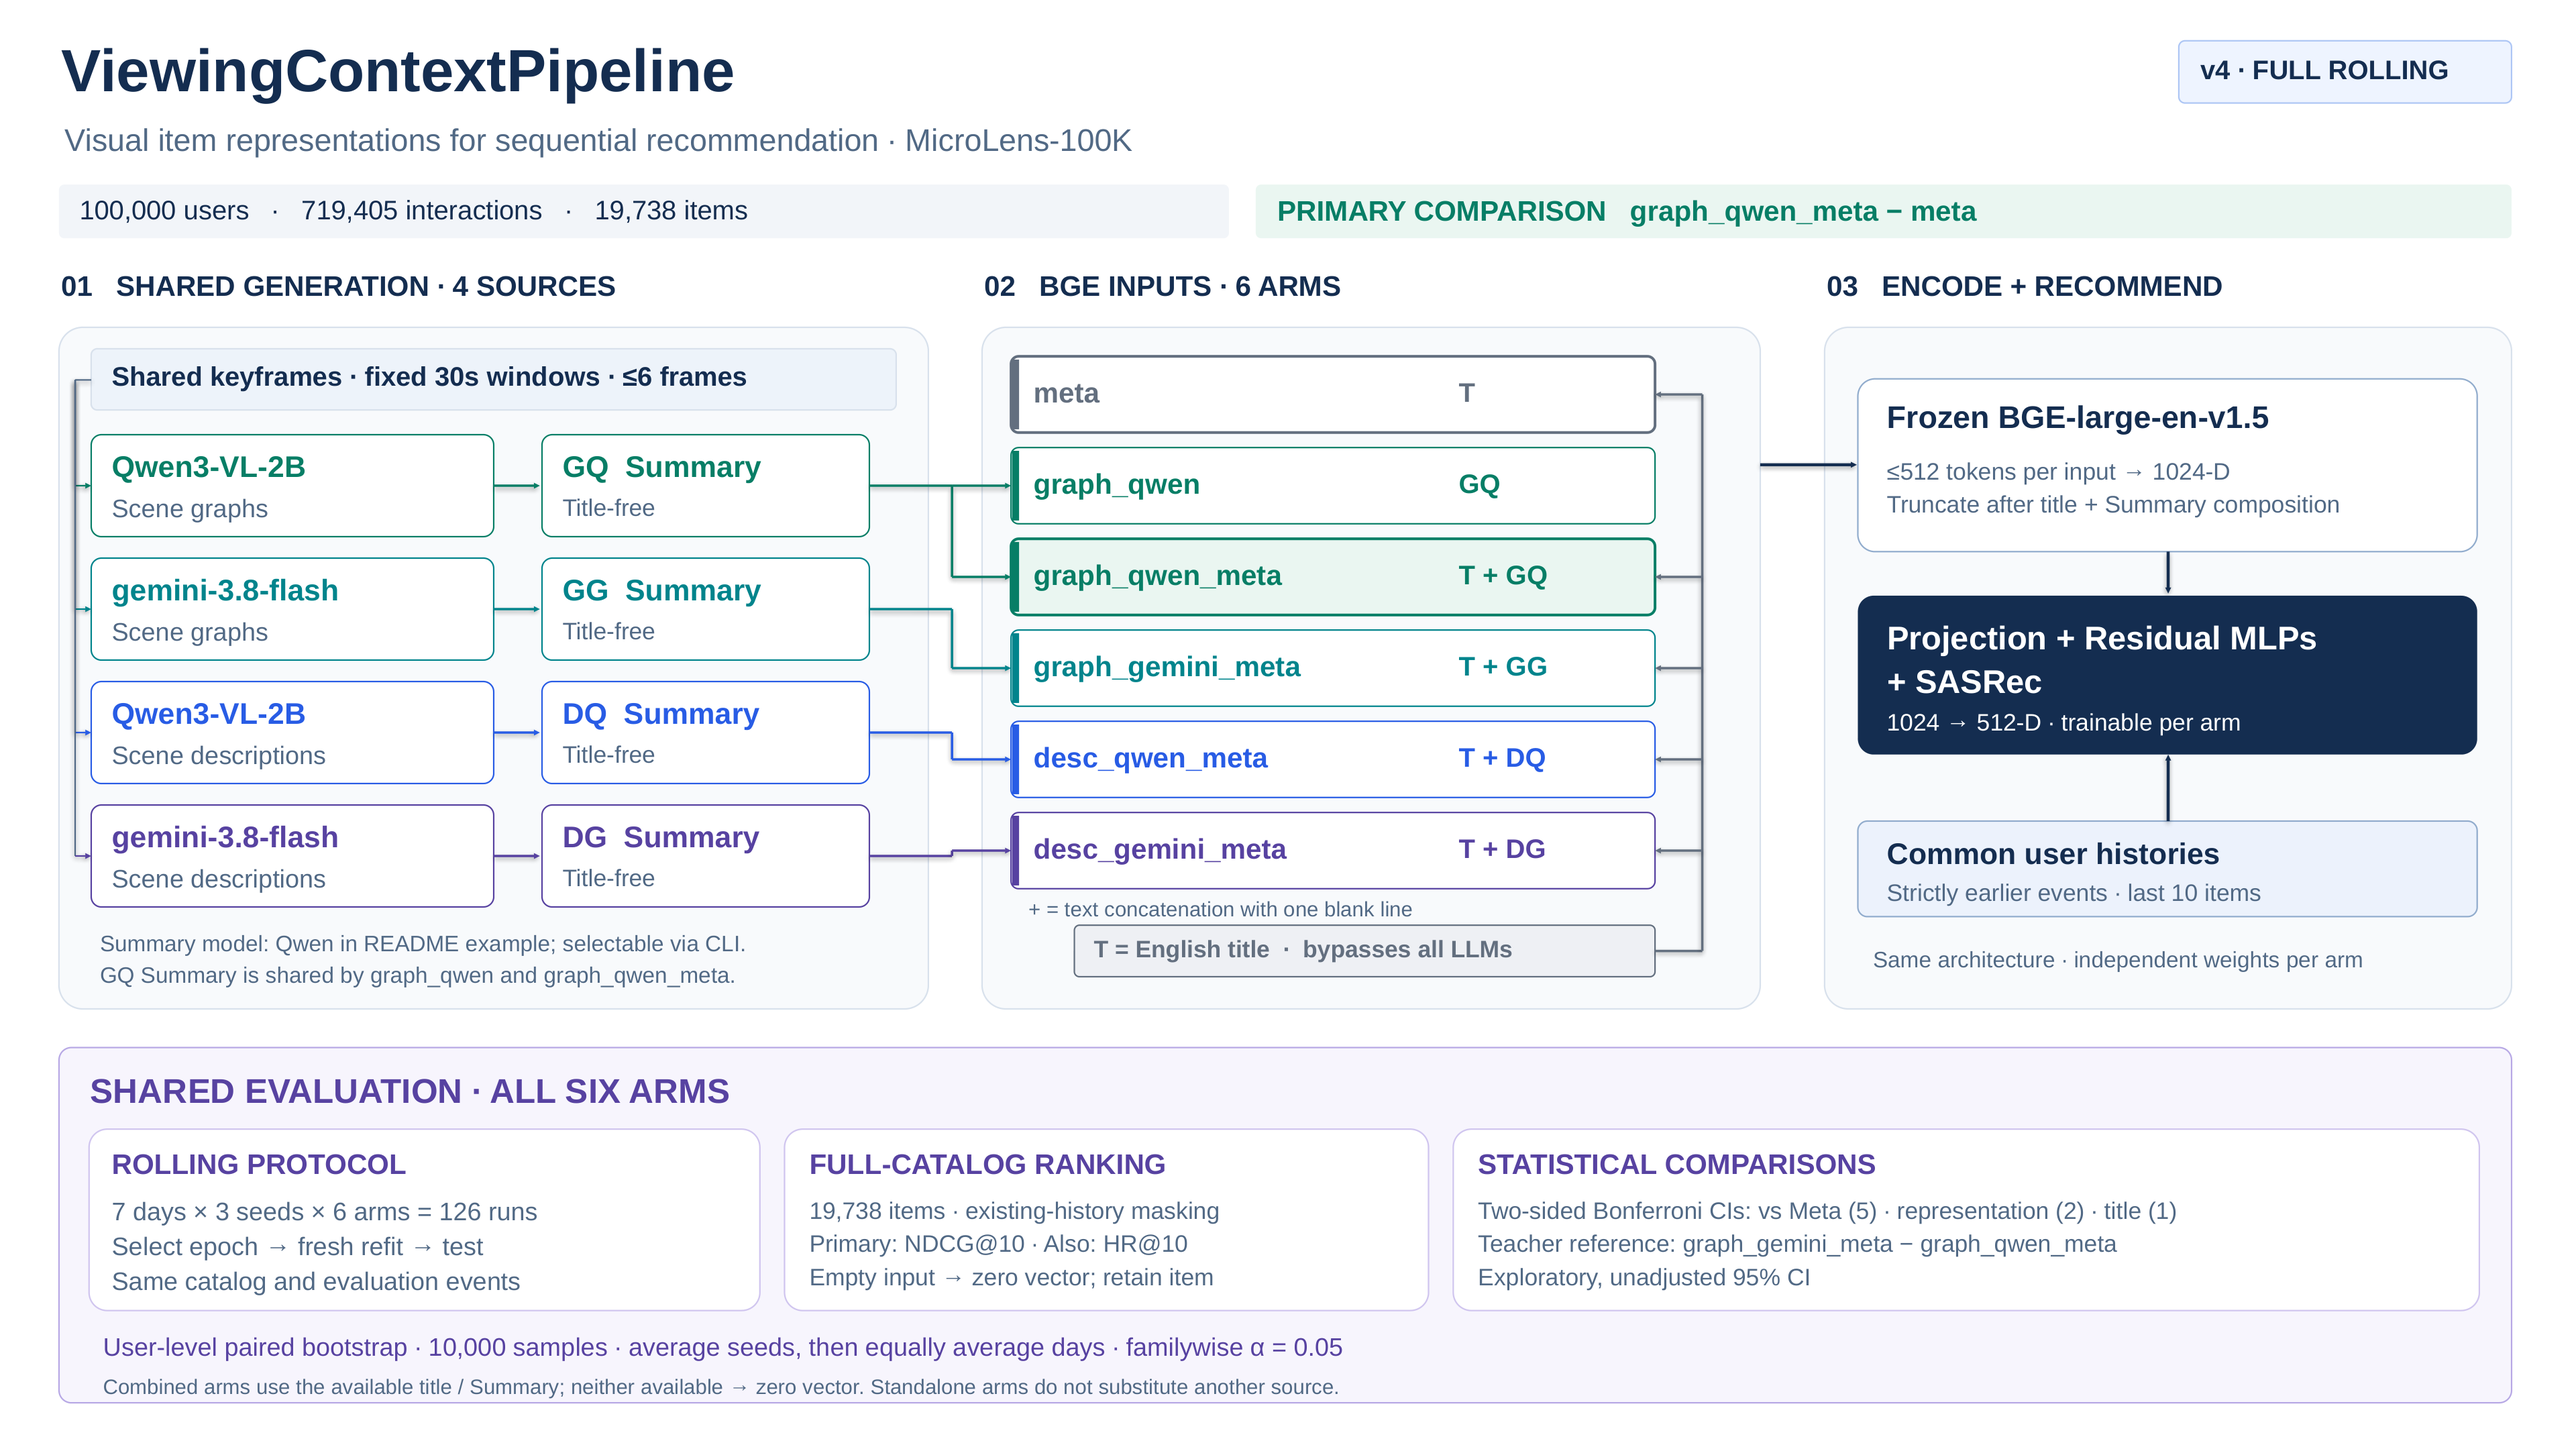
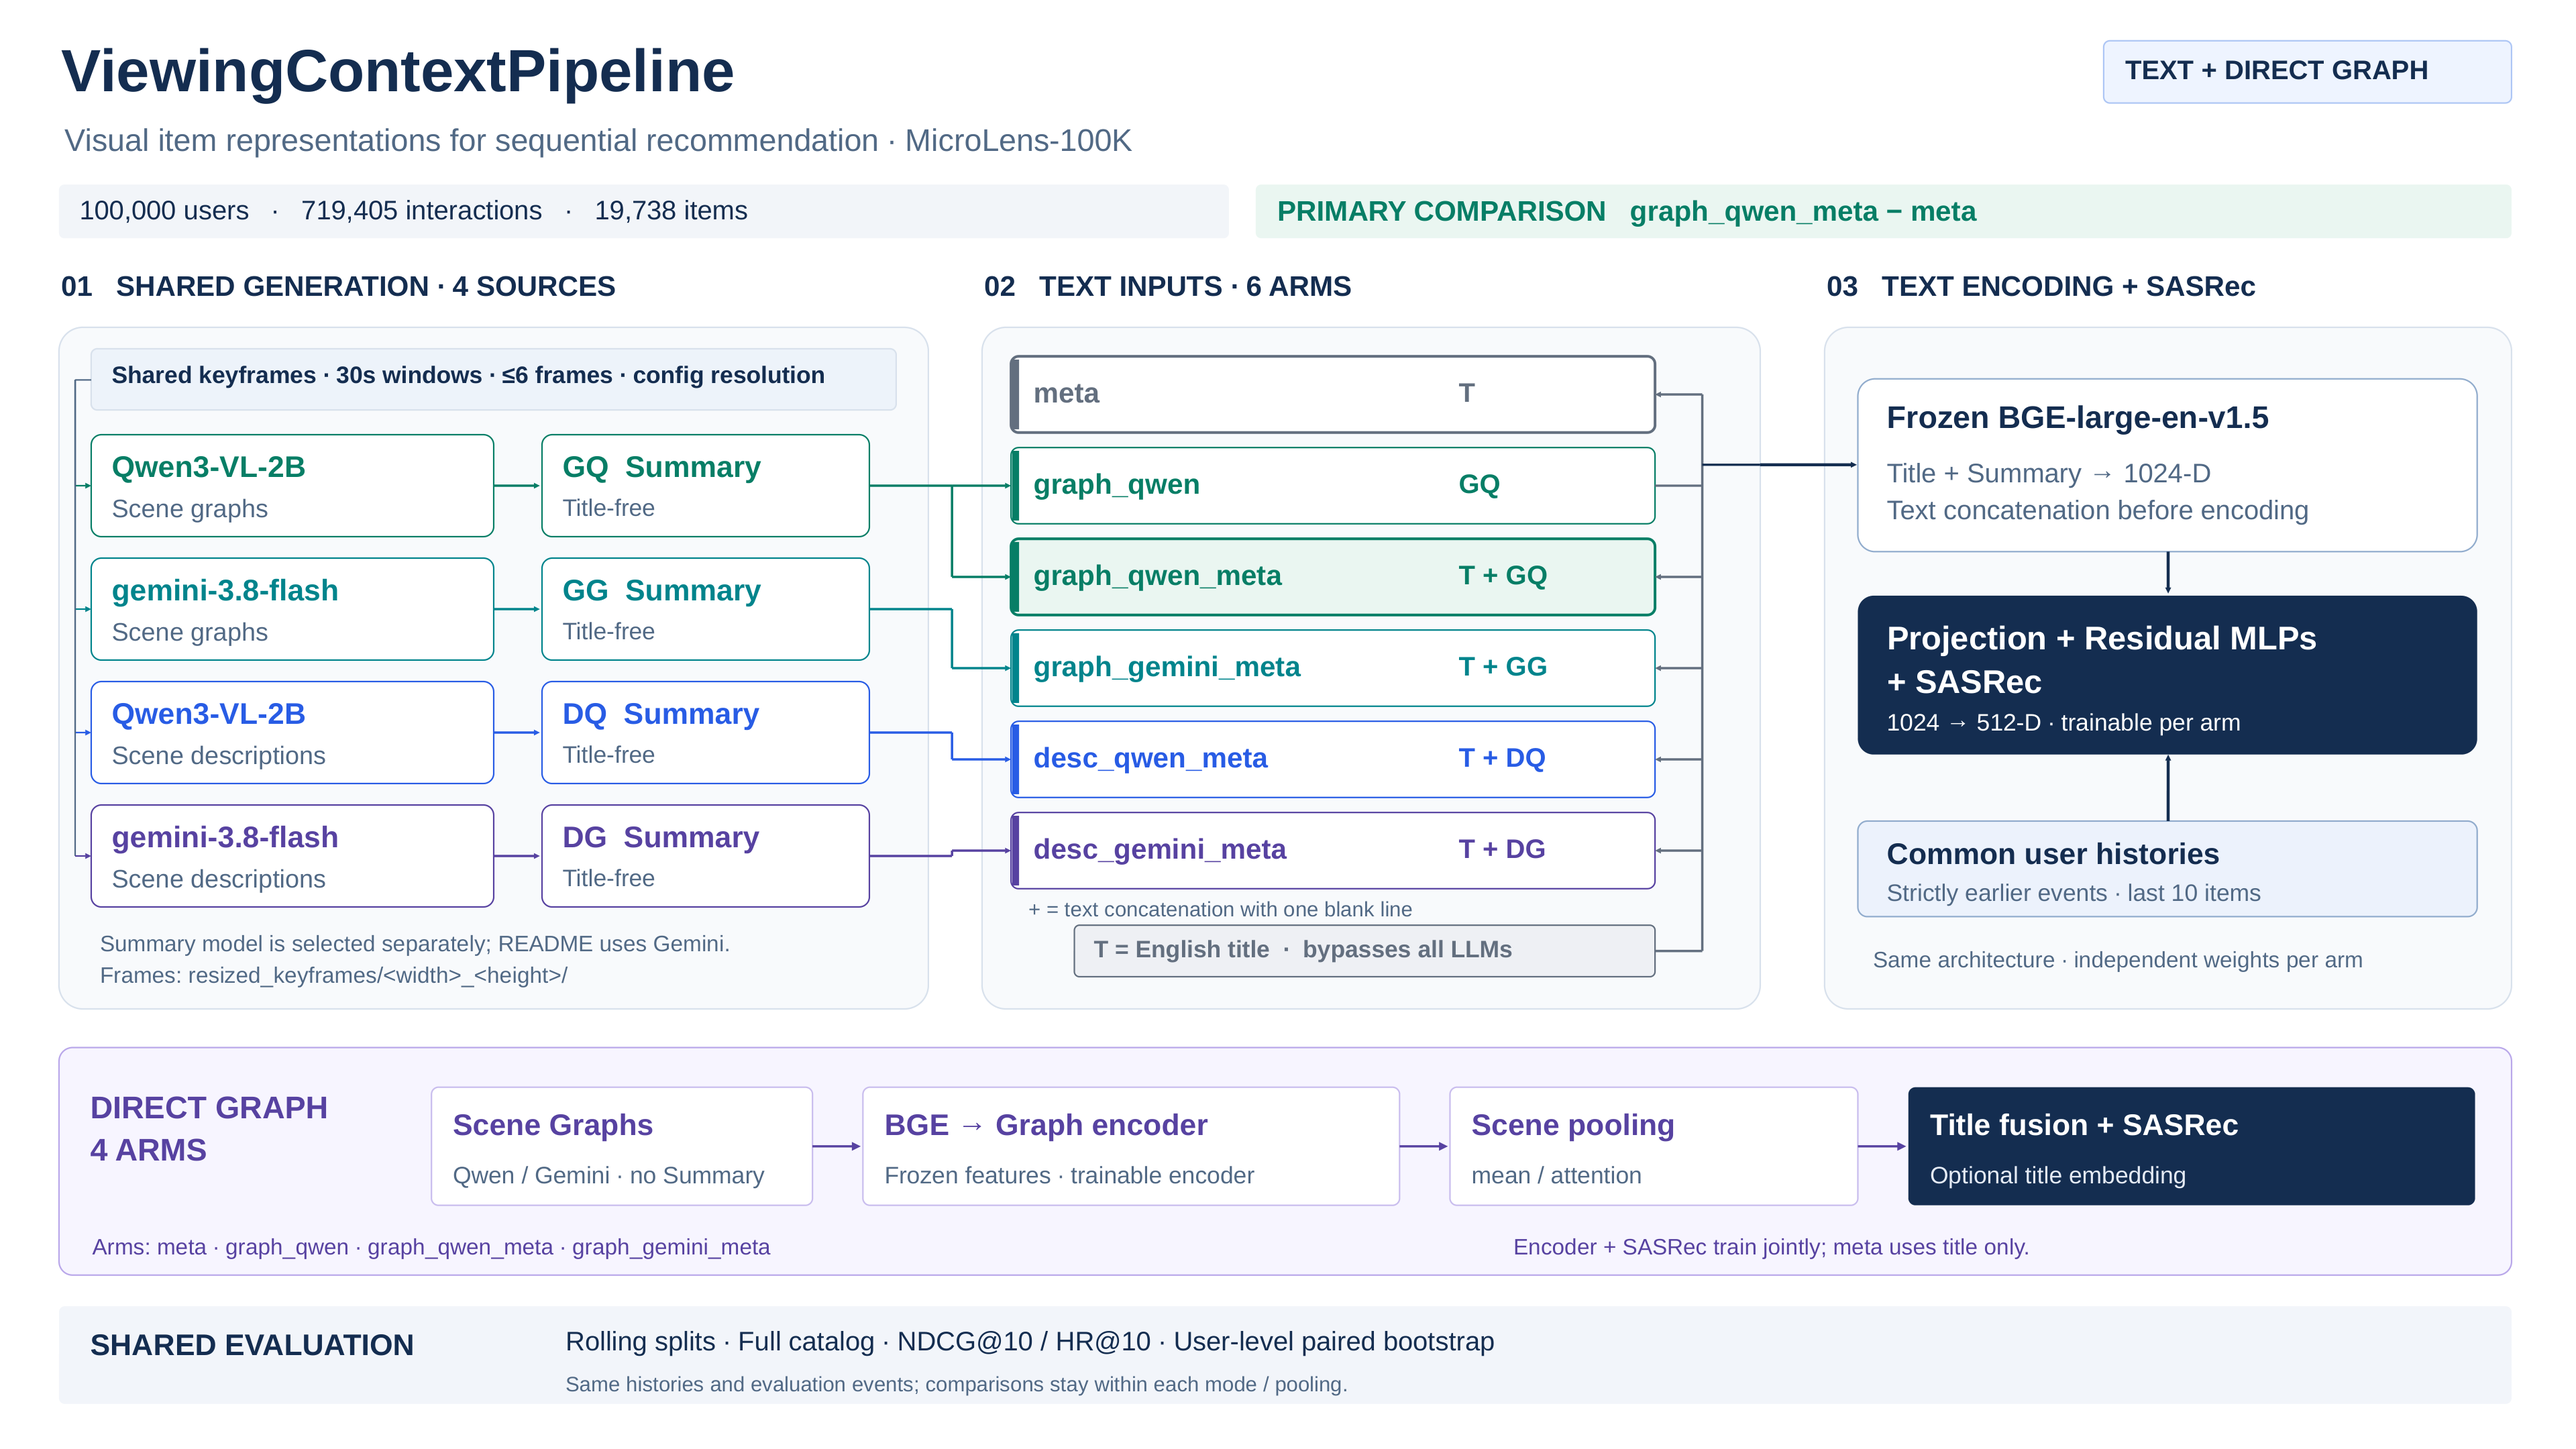
update

diff --git a/tests/preparation/test_shared_frames.py b/tests/preparation/test_shared_frames.py
@@ -1,4 +1,6 @@
 from concurrent.futures import ThreadPoolExecutor
+from copy import deepcopy
+from dataclasses import replace
 from pathlib import Path
 from types import SimpleNamespace
 
@@ -9,6 +11,44 @@ from preparation.video.video_processor import extract_resized_keyframes
 from preparation.input_data import prepare_input_data
 from pipeline_runtime import RunContext
 from preparation.steps import prepare_cohort_step
+
+
+def test_resolution_directories_are_isolated_and_reusable(ready_context, monkeypatch):
+    from extraction.step_support import visual_rows
+
+    first = ready_context
+    assert first.keyframes_dir == first.preparation_dir / "resized_keyframes/16_8"
+    original = {p: (p.read_bytes(), p.stat().st_mtime_ns) for p in first.keyframes_dir.rglob("*.png")}
+    config = deepcopy(first.config)
+    config["extraction"]["visual_evidence"]["image_resolution"] = [32, 16]
+    second = replace(first, config=config)
+    assert second.keyframes_dir == first.preparation_dir / "resized_keyframes/32_16"
+
+    calls = []
+
+    def ffmpeg(args, **kwargs):
+        calls.append(args)
+        Image.new("RGB", (32, 16)).save(args[-1])
+        return SimpleNamespace(returncode=0, stdout="", stderr="")
+
+    monkeypatch.setattr("preparation.video.video_processor.subprocess.run", ffmpeg)
+    prepare_input_data(second)
+    assert len(calls) == len(original)
+    for row in visual_rows(second):
+        directory = Path(row["frames_dir"])
+        assert directory == second.keyframes_dir / row["content_id"]
+        for path in directory.glob("*.png"):
+            with Image.open(path) as frame:
+                assert frame.size == (32, 16)
+    assert original == {p: (p.read_bytes(), p.stat().st_mtime_ns) for p in original}
+
+    monkeypatch.setattr(
+        "preparation.video.video_processor.subprocess.run",
+        lambda *a, **kw: pytest.fail("both prepared resolutions must be reused"),
+    )
+    prepare_input_data(first)
+    prepare_input_data(second)
+    assert all(Path(row["frames_dir"]).parent == first.keyframes_dir for row in visual_rows(first))
 
 
 def test_second_run_reuses_shared_timestamps_and_frames(ready_context, monkeypatch):

diff --git a/src/preparation/video/fixed30.py b/src/preparation/video/fixed30.py
@@ -32,10 +32,10 @@ def prepare_visual_item(
     content_id = _safe_content_id(content_id)
     item_assets = Path(assets_root) / content_id
     timestamp_path = item_assets / timestamp_filename(scene_duration, num_keyframes)
-    frames_dir = Path(output_root) / "resized_keyframes" / content_id
     width, height = image_size
     if width <= 0 or height <= 0:
         raise ValueError("image_size must contain positive width and height")
+    frames_dir = Path(output_root) / "resized_keyframes" / f"{width}_{height}" / content_id
     complete = visual_evidence_matches(
         timestamp_path,
         frames_dir,

diff --git a/tests/preparation/test_data_preparation.py b/tests/preparation/test_data_preparation.py
@@ -64,7 +64,7 @@ def test_prepare_visual_item_reuses_catalog_duration_and_uses_shared_root(
     scenes = json.loads(timestamp_path.read_text(encoding="utf-8"))
     assert scenes[-1]["scene_end"] == 30.1
     assert extract.call_args.args[1] == [2.5, 7.5, 12.5, 17.5, 22.5, 27.5, 30]
-    assert extract.call_args.args[2] == output_root / "resized_keyframes/content-1"
+    assert extract.call_args.args[2] == output_root / "resized_keyframes/640_352/content-1"
 
 
 def test_prepare_catalog_processes_exact_cohort(tmp_path: Path) -> None:

diff --git a/src/pipeline_runtime.py b/src/pipeline_runtime.py
@@ -89,7 +89,8 @@ class RunContext:
 
     @property
     def keyframes_dir(self) -> Path:
-        return self.evidence_dir / "resized_keyframes"
+        width, height = self.config["extraction"]["visual_evidence"]["image_resolution"]
+        return self.evidence_dir / "resized_keyframes" / f"{width}_{height}"
 
     @property
     def source_assets_dir(self) -> Path:
